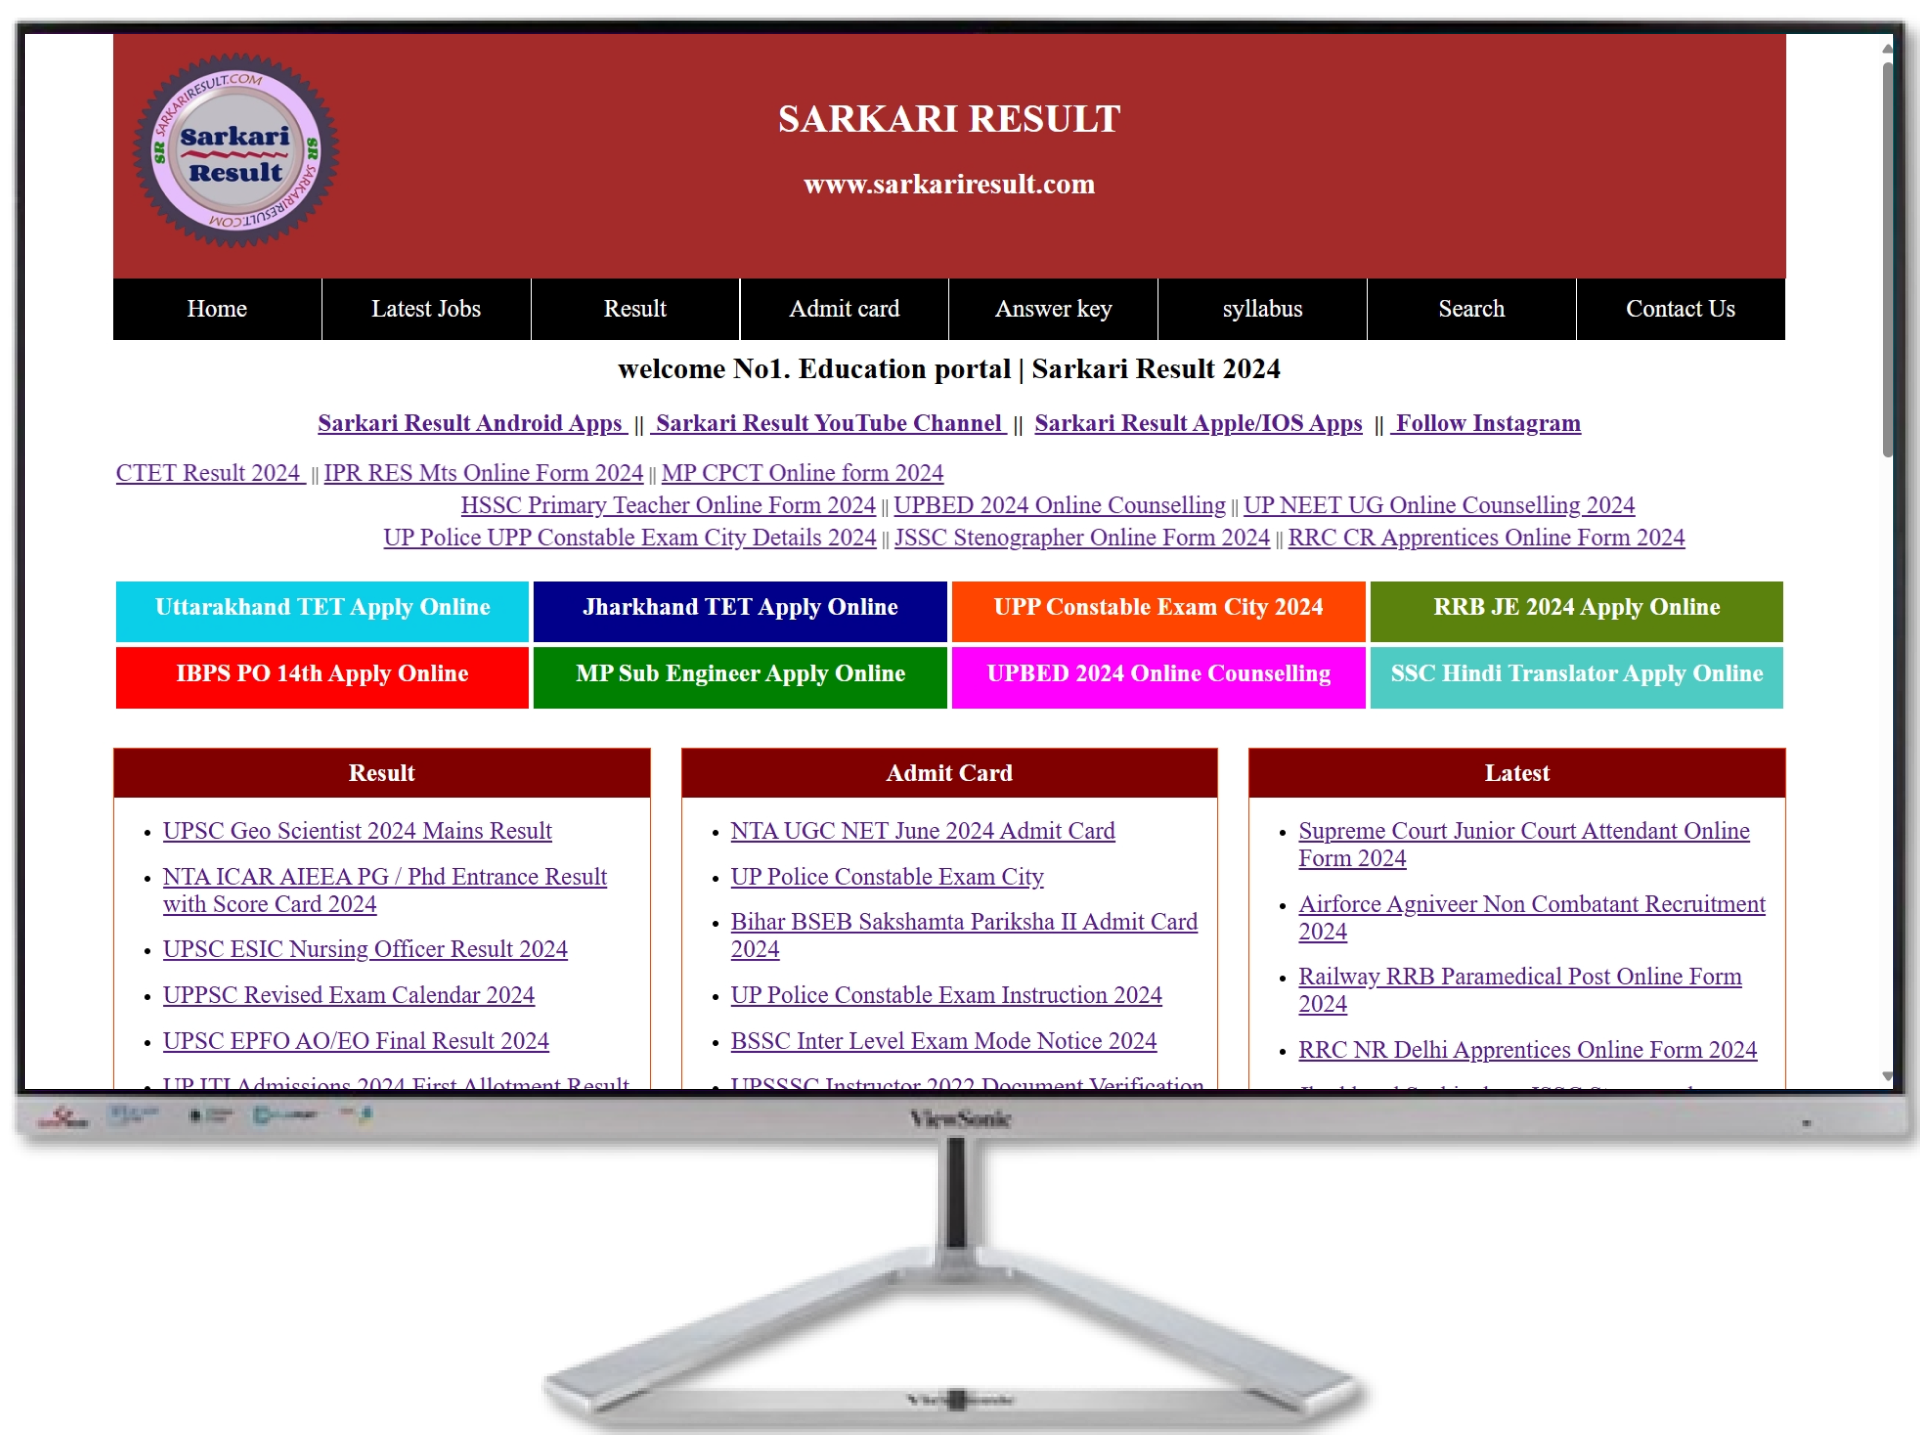
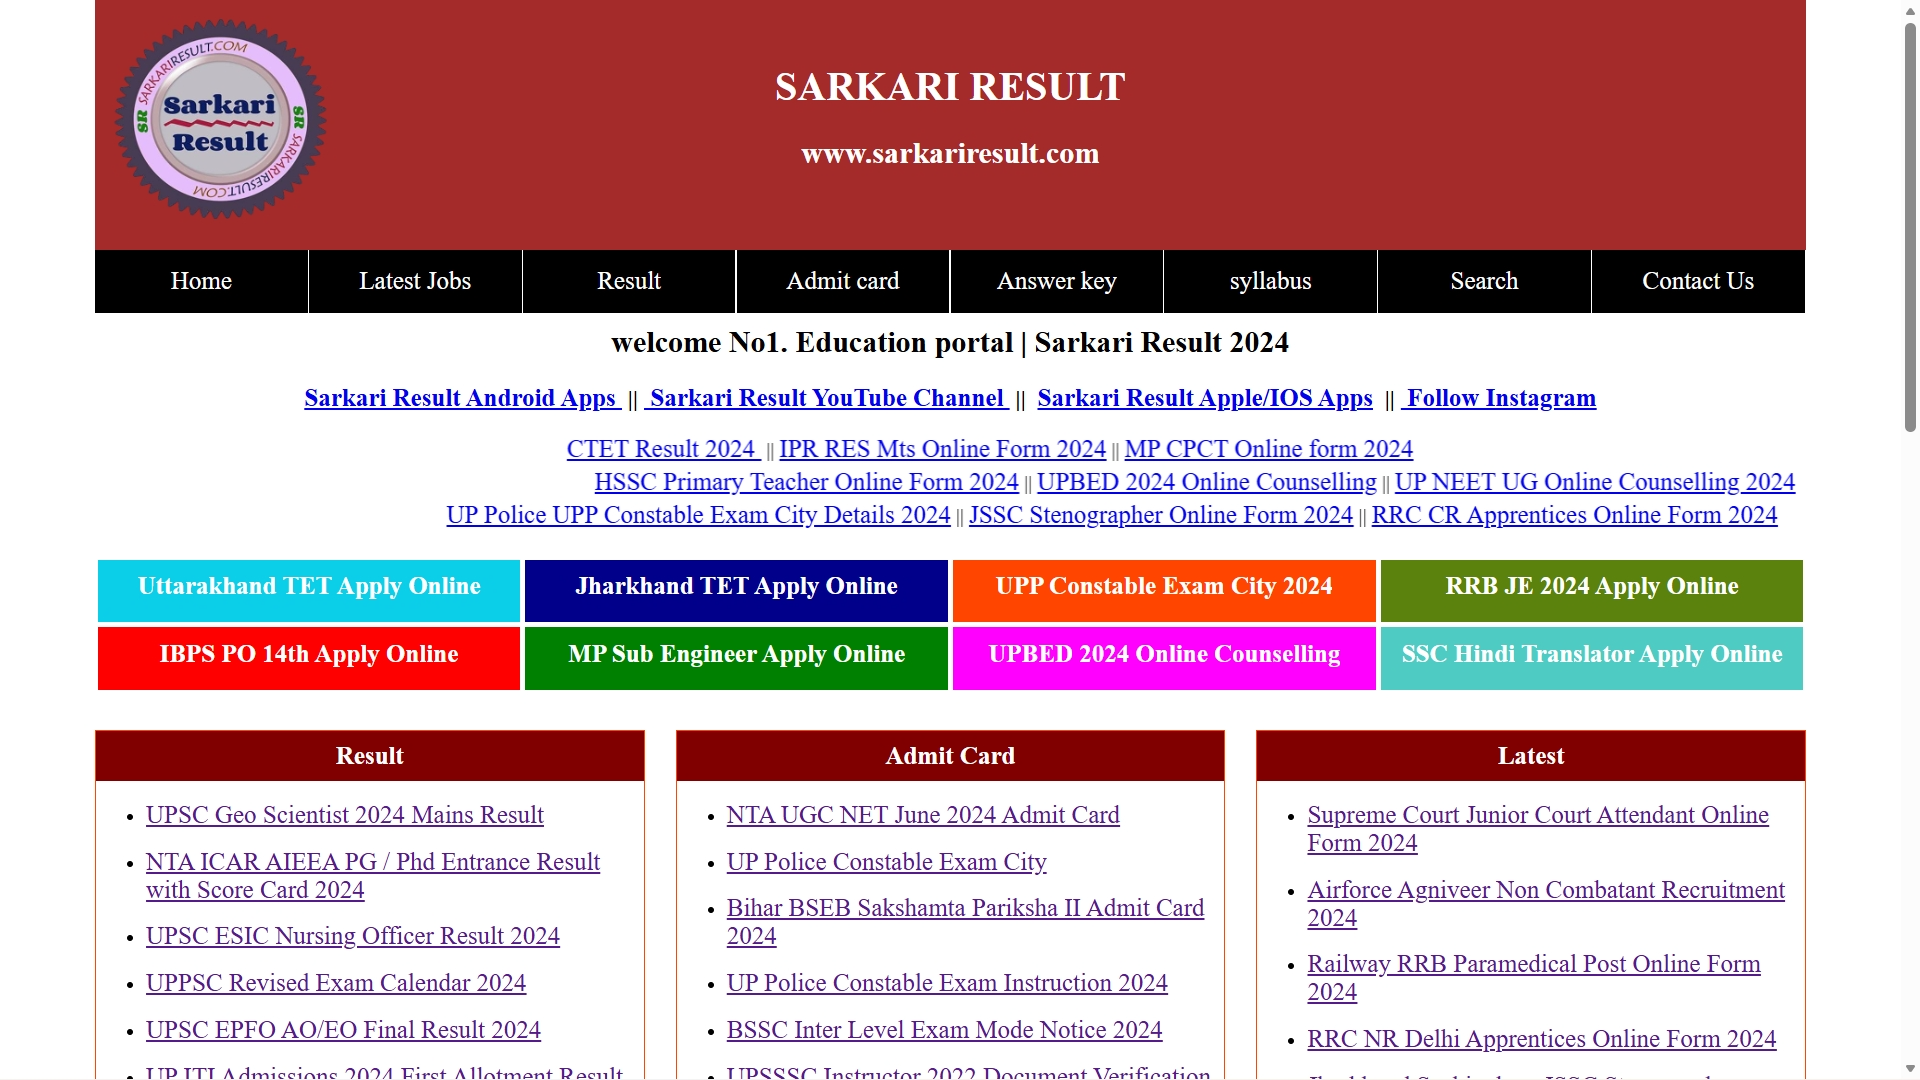
add project card

diff --git a/index.html b/index.html
@@ -253,26 +253,64 @@
                 <h2 class=" mb-5 text-2xl font-bold text-purple-500" data-aos="fade-up">Projects</h2>
                 <div class="relative text-lg font-bold text-white" data-aos="fade-up"><h2 class="border-b absolute pb-1">static project</h2></div>
                 <div class="grid grid-cols-3  max-sm:grid-cols-1 max-md:grid-cols-2 h-[100%] w-full gap-5 gap-y-10 -z-10 mt-18">
-                    <div class="border-gray-500 relative group" data-aos="fade-up">
-                        <a href="https://udaybscitstudent.github.io/myinfo/"><img src="image/myinfo.png" class="object-cover h-[100%] w-[100%]" id="info"/></a>
+                    <div class="border-2 border-gray-600 h-auto p-2 rounded bg-gray-800 relative group" data-aos="fade-up">
+                        <!-- <a href="https://udaybscitstudent.github.io/myinfo/"><img src="image/myinfo.png" class="object-cover h-[100%] w-[100%]" id="info"/></a>
                         <div class="absolute -top-13 text-center flex justify-center  invisible group-hover:visible w-full" id="show">
                             <h2 class="m-auto px-10 rounded-sm py-2 bg-purple-500 ">my portfolio</h2>
                             <i class='bx bxs-down-arrow text-xl text-center text-purple-500 absolute -bottom-3.5'></i>
+                        </div> -->
+                        <a href="https://udaybscitstudent.github.io/myinfo/"><img src="image/portfolio.png" class="object-cover border border-gray-600 rounded  w-[100%]" id="info"/></a>
+                        <div class="p-2">
+                            <p class="font-bold text-lg py-2">Personal Portfolio</p>
+                            <!-- <p>Developed a responsive portfolio website to showcase projects, skills, certifications, and contact information with a modern user interface.</p> -->
+                             <div class="gap-2">
+                                <p class=""><b>Tech : </b>HTML , CSS , Tailwind CSS , JS </p>
+                                <p><b>Github : </b><a href="https://github.com/udaybscitstudent" class="text-blue-500">github.com/udaybscitstudent</a></p>
+                                <p><b>Demo : </b><a href="https://udaybscitstudent.github.io/myinfo/" class="text-blue-500">Click Here</a></p>
+                            </div>
                         </div>
                     </div>
                     
-                    <div class="group border-gray-500 relative " data-aos="fade-up">
+                    <!-- <div class="group border-gray-500 relative " data-aos="fade-up">
                         <a href="https://myinfo0000.netlify.app/" target="_blank"><img src="image/sarkari.png" class="object-cover h-[100%] w-[100%]"/></a>
                         <div class="absolute -top-13 text-center flex justify-center  invisible group-hover:visible w-full" id="show">
                             <a href="https://myinfo0000.netlify.app/" target="_blank"><h2 class="m-auto px-10 rounded-sm py-2 bg-red-800 ">sarkari result</h2></a>
                             <i class='bx bxs-down-arrow text-xl text-center text-red-800 absolute -bottom-3.5'></i>
                         </div>
+                    </div> -->
+<!-- sarkari result -->
+                    <div class="border-2 border-gray-600 h-auto p-2 rounded bg-gray-800 relative group" data-aos="fade-up">
+                        <a href="https://myinfo0000.netlify.app/"><img src="image/sarkari.png" class="object-cover border border-gray-600 rounded  w-[100%]" id="info"/></a>
+                        <div class="p-2">
+                            <p class="font-bold text-lg py-2">Personal Portfolio</p>
+                            <!-- <p>Developed a responsive portfolio website to showcase projects, skills, certifications, and contact information with a modern user interface.</p> -->
+                             <div class="gap-2">
+                                <p class=""><b>Tech : </b>HTML , CSS , Tailwind CSS , JS </p>
+                                <p><b>Github : </b><a href="https://github.com/udaybscitstudent" class="text-blue-500">github.com/udaybscitstudent</a></p>
+                                <p><b>Demo : </b><a href="https://myinfo0000.netlify.app/" class="text-blue-500">Click Here</a></p>
+                            </div>
+                        </div>
                     </div>
-                    <div class="group border-gray-500 relative " data-aos="fade-up">
+
+                    <!-- <div class="group border-gray-500 relative " data-aos="fade-up">
                         <a href="https://darling-sprinkles-42b47a.netlify.app/" target="_blank"><img src="image/weather.png" class="object-cover h-[100%] w-[100%]"/></a>
                         <div class="absolute -top-13 text-center flex justify-center  invisible group-hover:visible w-full" id="show">
                             <a href="https://darling-sprinkles-42b47a.netlify.app/" target="_blank"><h2 class="m-auto px-10 rounded-sm py-2 bg-blue-400 ">Weather forecasting</h2></a>
                             <i class='bx bxs-down-arrow text-xl text-center text-blue-400 absolute -bottom-3.5'></i>
+                        </div>
+                    </div> -->
+                    <!-- weatherfore casting -->
+                    <div class="border-2 border-gray-600 h-auto p-2 rounded bg-gray-800 relative group" data-aos="fade-up">
+                         
+                        <a href="https://darling-sprinkles-42b47a.netlify.app/"><img src="image/weatherforecasting.png" class="object-cover border border-gray-600 rounded  w-[100%]" id="info"/></a>
+                        <div class="p-2">
+                            <p class="font-bold text-lg py-2">Weatherfore Casting</p>
+                            <!-- <p>Developed a responsive portfolio website to showcase projects, skills, certifications, and contact information with a modern user interface.</p> -->
+                             <div class="gap-2">
+                                <p class=""><b>Tech : </b>HTML , CSS , Tailwind CSS , JS </p>
+                                <p><b>Github : </b><a href="https://github.com/udaybscitstudent" class="text-blue-500">github.com/udaybscitstudent</a></p>
+                                <p><b>Demo : </b><a href="https://darling-sprinkles-42b47a.netlify.app/" class="text-blue-500">Click Here</a></p>
+                            </div>
                         </div>
                     </div>
                 </div>